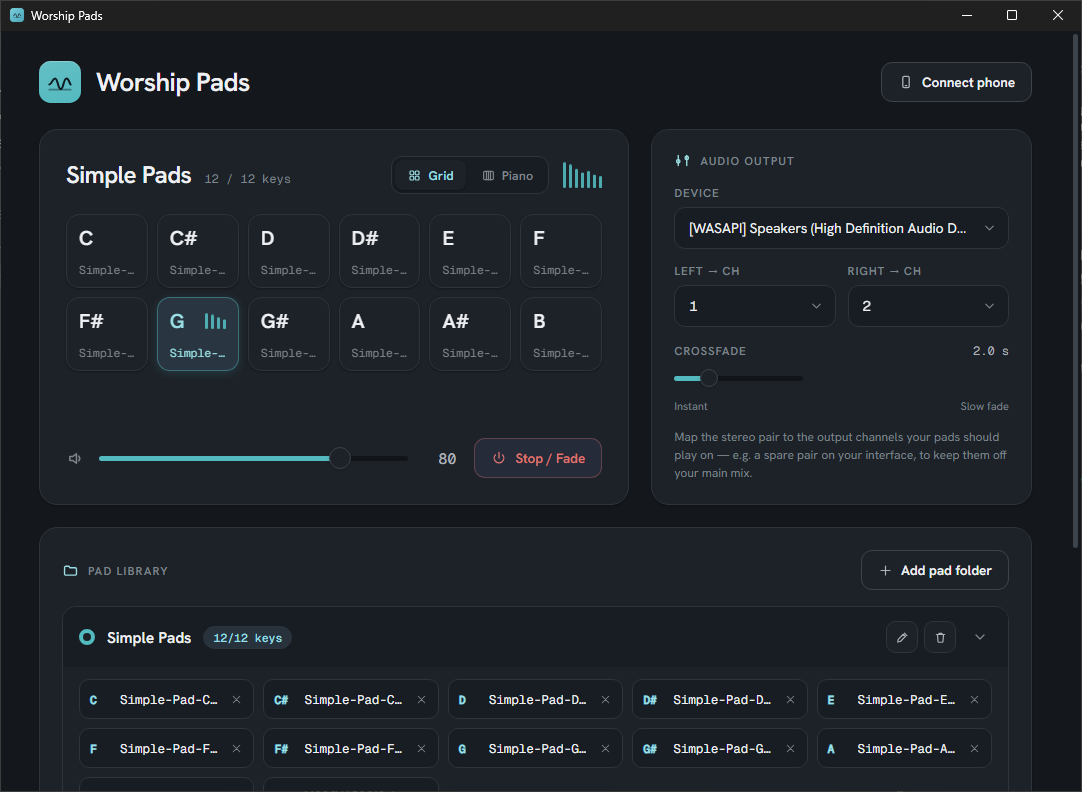
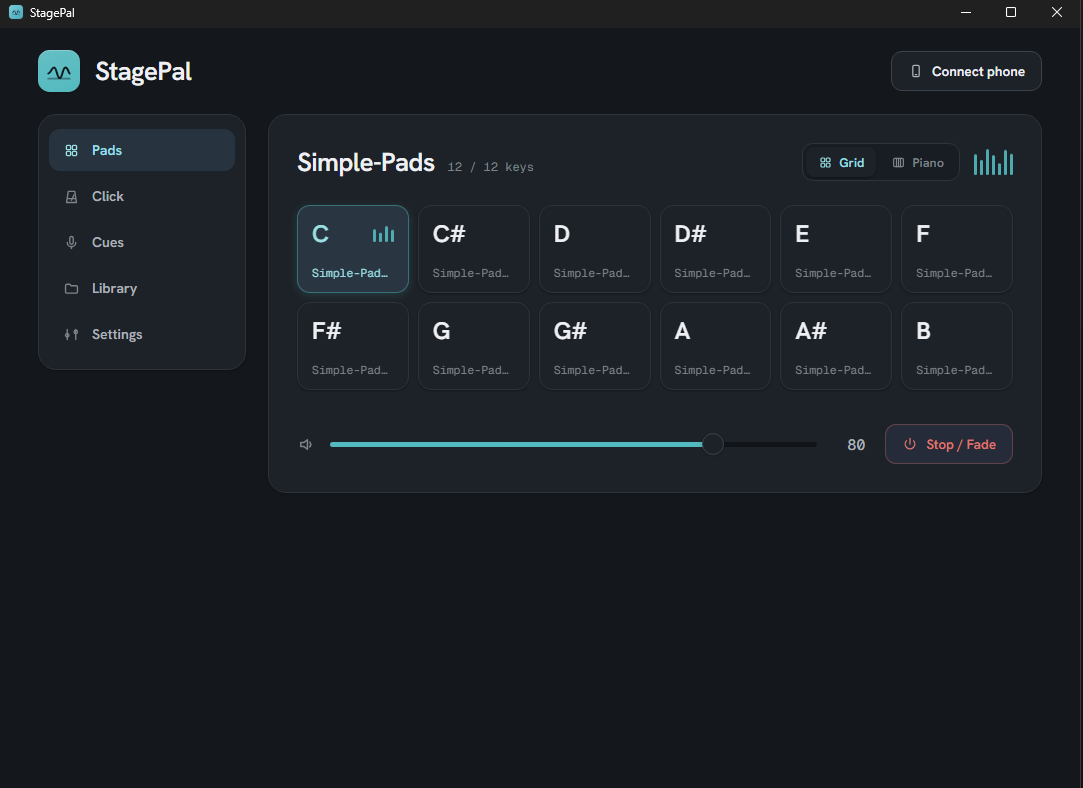
Update README

diff --git a/README.md b/README.md
@@ -27,7 +27,11 @@ while your phone acts as a wireless remote.
 
 ## Development
 
+Requires Node and a Rust toolchain set up for [Tauri 2](https://tauri.app/start/prerequisites/).
+The default build links ASIO via `cpal`, so it also needs the Steinberg ASIO SDK
+and `libclang` on `PATH`; pass `--no-default-features` to skip ASIO.
+
 ```bash
 npm install
-npm run tauri dev      # launches the app (starts hidden in the tray)
+npm run tauri dev
 ```